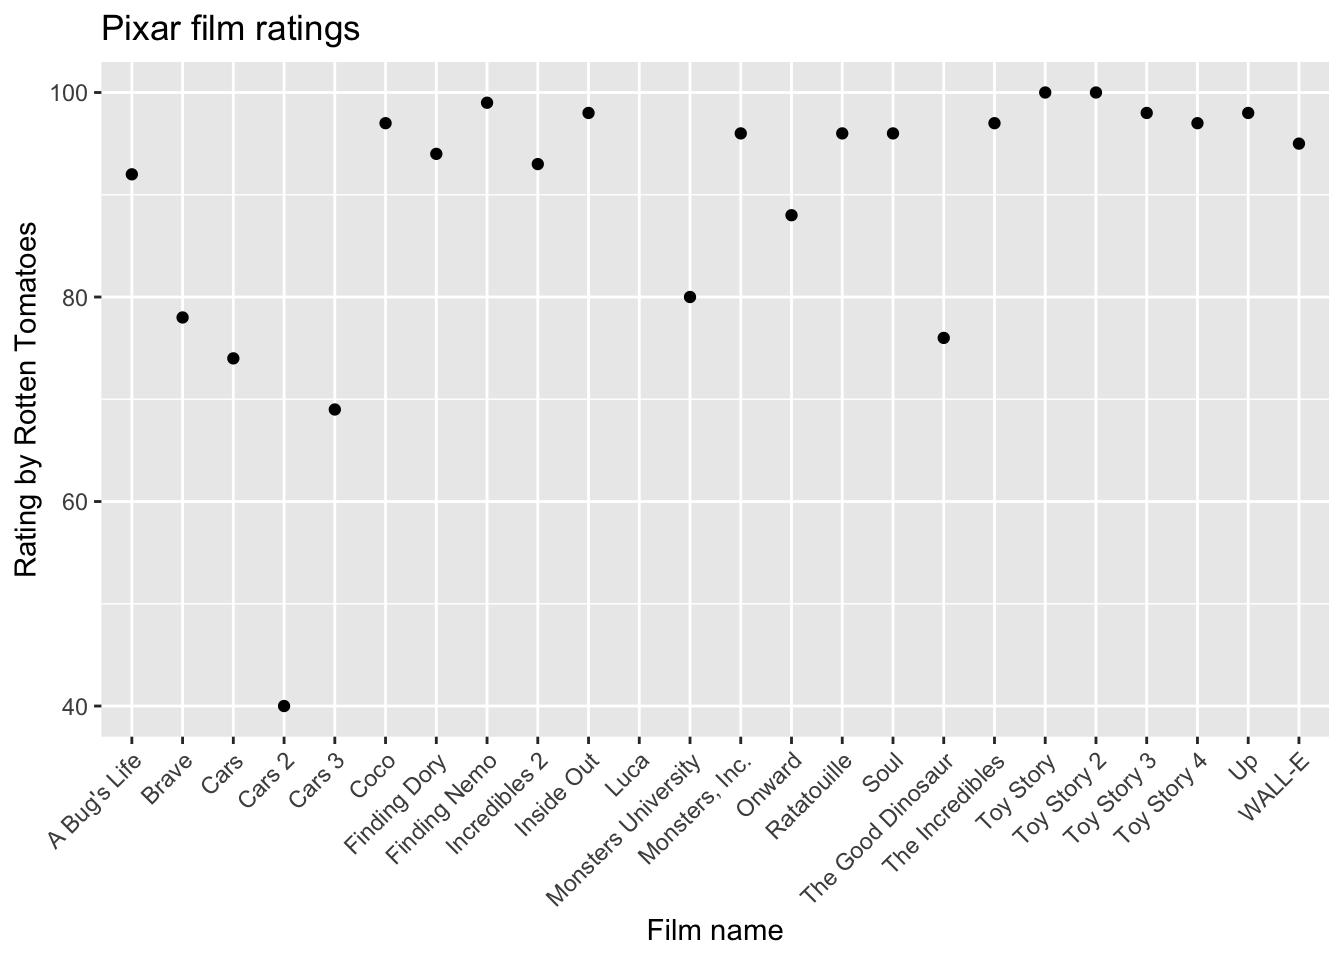
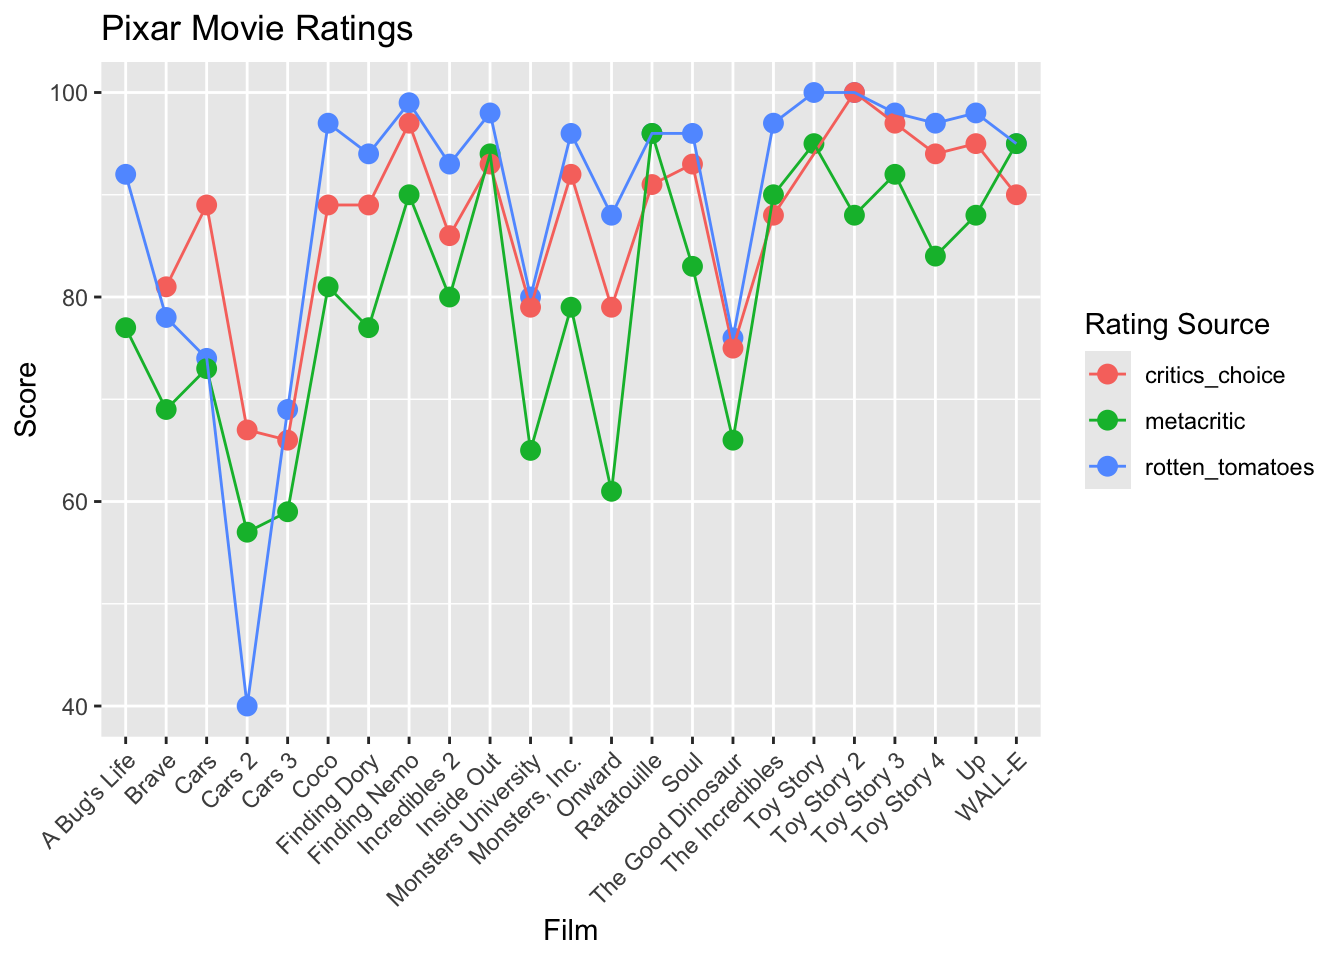
found a cool way to make different lines on different groups of data with geom_line!

diff --git a/docs/pixar.html b/docs/pixar.html
@@ -208,16 +208,26 @@ pre > code.sourceCode > span > a:first-child::before { text-decoration: underlin
 <section id="lets-plot-it" class="level1">
 <h1>Let’s plot it!</h1>
 <div class="cell">
-<div class="code-copy-outer-scaffold"><div class="sourceCode cell-code" id="cb3"><pre class="sourceCode r code-with-copy"><code class="sourceCode r"><span id="cb3-1"><a href="#cb3-1" aria-hidden="true" tabindex="-1"></a><span class="fu">ggplot</span>(pixar_ratings, <span class="fu">aes</span>(<span class="at">x=</span>film, <span class="at">y=</span>rotten_tomatoes)) <span class="sc">+</span></span>
-<span id="cb3-2"><a href="#cb3-2" aria-hidden="true" tabindex="-1"></a>  <span class="fu">geom_point</span>() <span class="sc">+</span></span>
-<span id="cb3-3"><a href="#cb3-3" aria-hidden="true" tabindex="-1"></a>  <span class="fu">labs</span>(</span>
-<span id="cb3-4"><a href="#cb3-4" aria-hidden="true" tabindex="-1"></a>    <span class="at">title =</span> <span class="st">"Pixar film ratings"</span>,</span>
-<span id="cb3-5"><a href="#cb3-5" aria-hidden="true" tabindex="-1"></a>    <span class="at">x =</span> <span class="st">"Film name"</span>,</span>
-<span id="cb3-6"><a href="#cb3-6" aria-hidden="true" tabindex="-1"></a>    <span class="at">y =</span> <span class="st">"Rating by Rotten Tomatoes"</span></span>
-<span id="cb3-7"><a href="#cb3-7" aria-hidden="true" tabindex="-1"></a>  ) <span class="sc">+</span></span>
-<span id="cb3-8"><a href="#cb3-8" aria-hidden="true" tabindex="-1"></a>  <span class="fu">theme</span>(</span>
-<span id="cb3-9"><a href="#cb3-9" aria-hidden="true" tabindex="-1"></a>    <span class="at">axis.text.x =</span> <span class="fu">element_text</span>(<span class="at">angle =</span> <span class="dv">45</span>, <span class="at">hjust =</span> <span class="dv">1</span>)</span>
-<span id="cb3-10"><a href="#cb3-10" aria-hidden="true" tabindex="-1"></a>  )</span></code></pre></div><button title="Copy to Clipboard" class="code-copy-button"><i class="bi"></i></button></div>
+<div class="code-copy-outer-scaffold"><div class="sourceCode cell-code" id="cb3"><pre class="sourceCode r code-with-copy"><code class="sourceCode r"><span id="cb3-1"><a href="#cb3-1" aria-hidden="true" tabindex="-1"></a>pixar_ratings_long <span class="ot">&lt;-</span> pixar_ratings <span class="sc">|&gt;</span></span>
+<span id="cb3-2"><a href="#cb3-2" aria-hidden="true" tabindex="-1"></a>  <span class="fu">pivot_longer</span>(</span>
+<span id="cb3-3"><a href="#cb3-3" aria-hidden="true" tabindex="-1"></a>    <span class="at">cols =</span> <span class="fu">c</span>(rotten_tomatoes, metacritic, critics_choice),</span>
+<span id="cb3-4"><a href="#cb3-4" aria-hidden="true" tabindex="-1"></a>    <span class="at">names_to =</span> <span class="st">"rating_source"</span>,</span>
+<span id="cb3-5"><a href="#cb3-5" aria-hidden="true" tabindex="-1"></a>    <span class="at">values_to =</span> <span class="st">"score"</span></span>
+<span id="cb3-6"><a href="#cb3-6" aria-hidden="true" tabindex="-1"></a>  )<span class="sc">|&gt;</span></span>
+<span id="cb3-7"><a href="#cb3-7" aria-hidden="true" tabindex="-1"></a>  <span class="fu">filter</span>(<span class="sc">!</span><span class="fu">is.na</span>(score)) </span>
+<span id="cb3-8"><a href="#cb3-8" aria-hidden="true" tabindex="-1"></a></span>
+<span id="cb3-9"><a href="#cb3-9" aria-hidden="true" tabindex="-1"></a><span class="fu">ggplot</span>(pixar_ratings_long, <span class="fu">aes</span>(<span class="at">x =</span> film, <span class="at">y =</span> score, <span class="at">color =</span> rating_source)) <span class="sc">+</span></span>
+<span id="cb3-10"><a href="#cb3-10" aria-hidden="true" tabindex="-1"></a>  <span class="fu">geom_point</span>(<span class="at">size =</span> <span class="dv">3</span>) <span class="sc">+</span></span>
+<span id="cb3-11"><a href="#cb3-11" aria-hidden="true" tabindex="-1"></a>  <span class="fu">geom_line</span>(<span class="fu">aes</span>(<span class="at">group =</span> rating_source)) <span class="sc">+</span></span>
+<span id="cb3-12"><a href="#cb3-12" aria-hidden="true" tabindex="-1"></a>  <span class="fu">labs</span>(</span>
+<span id="cb3-13"><a href="#cb3-13" aria-hidden="true" tabindex="-1"></a>    <span class="at">title =</span> <span class="st">"Pixar Movie Ratings"</span>,</span>
+<span id="cb3-14"><a href="#cb3-14" aria-hidden="true" tabindex="-1"></a>    <span class="at">x =</span> <span class="st">"Film"</span>,</span>
+<span id="cb3-15"><a href="#cb3-15" aria-hidden="true" tabindex="-1"></a>    <span class="at">y =</span> <span class="st">"Score"</span>,</span>
+<span id="cb3-16"><a href="#cb3-16" aria-hidden="true" tabindex="-1"></a>    <span class="at">color =</span> <span class="st">"Rating Source"</span></span>
+<span id="cb3-17"><a href="#cb3-17" aria-hidden="true" tabindex="-1"></a>  ) <span class="sc">+</span></span>
+<span id="cb3-18"><a href="#cb3-18" aria-hidden="true" tabindex="-1"></a>  <span class="fu">theme</span>(</span>
+<span id="cb3-19"><a href="#cb3-19" aria-hidden="true" tabindex="-1"></a>    <span class="at">axis.text.x =</span> <span class="fu">element_text</span>(<span class="at">angle =</span> <span class="dv">45</span>, <span class="at">hjust =</span> <span class="dv">1</span>)</span>
+<span id="cb3-20"><a href="#cb3-20" aria-hidden="true" tabindex="-1"></a>  )</span></code></pre></div><button title="Copy to Clipboard" class="code-copy-button"><i class="bi"></i></button></div>
 <div class="cell-output-display">
 <div>
 <figure class="figure">
